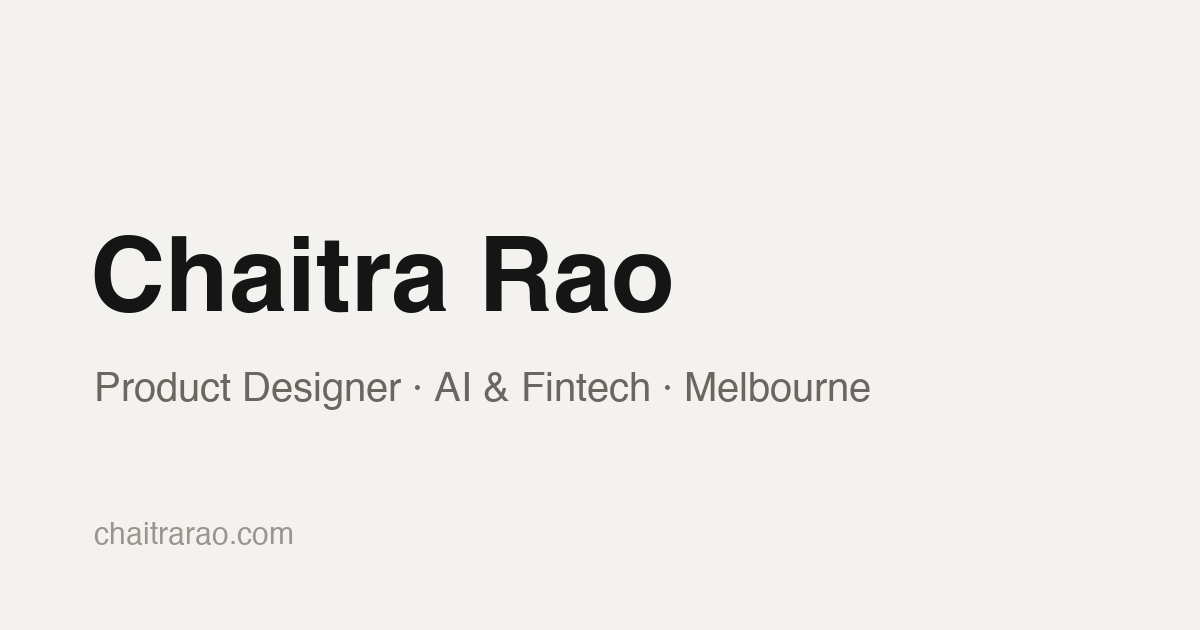
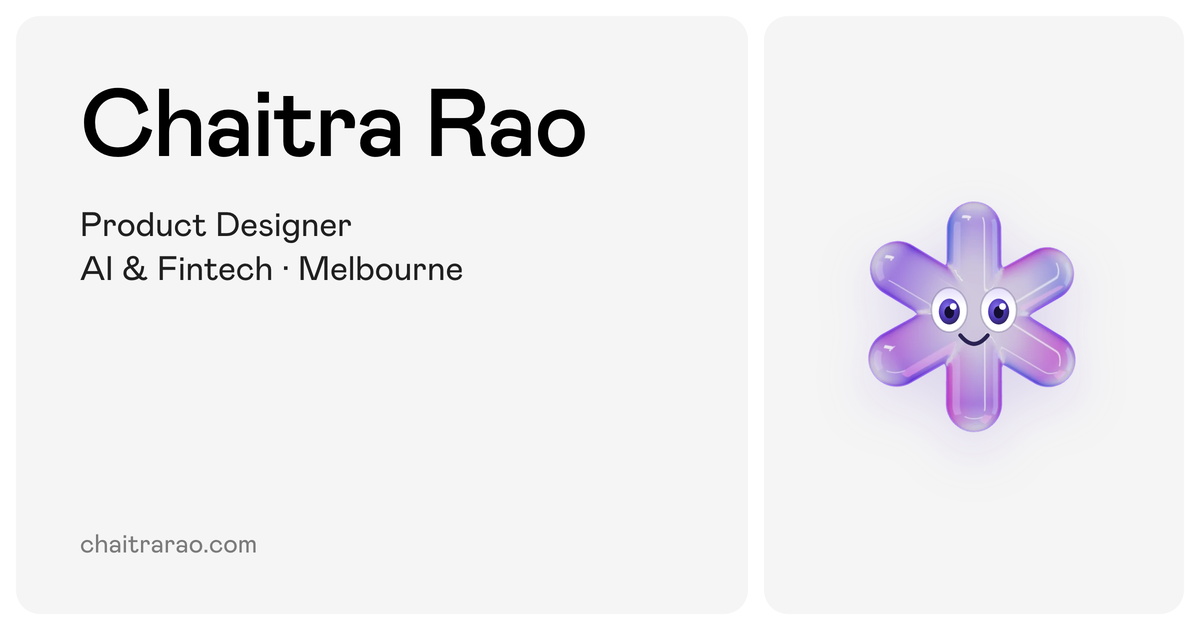
Prerender every page for crawlers; minimal link preview image
- Build now prerenders each public page to its own HTML (scripts/prerender.mjs,
  src/entry-server.tsx, src/app/routes.tsx) with per-page title, description,
  canonical, OG/Twitter tags and JSON-LD; sitemap.xml is generated at build.
- Drop the SPA catch-all rewrite (vercel.json cleanUrls, _redirects) so unknown
  paths return a real 404 and robots.txt/sitemap.xml are served as files.
- New og.png in the site's own style (grey cards, Mabry Pro, glass asterisk),
  linked as og.png?v=2 so apps refetch it.

diff --git a/index.html b/index.html
@@ -13,7 +13,7 @@
     <meta property="og:site_name" content="Chaitra Rao" />
     <meta property="og:locale" content="en_AU" />
     <meta property="og:url" content="https://chaitrarao.com/" />
-    <meta property="og:image" content="https://chaitrarao.com/og.png" />
+    <meta property="og:image" content="https://chaitrarao.com/og.png?v=2" />
     <meta property="og:image:width" content="1200" />
     <meta property="og:image:height" content="630" />
     <meta property="og:image:alt" content="Chaitra Rao, Product Designer, AI and Fintech" />
@@ -22,7 +22,7 @@
     <meta name="twitter:card" content="summary_large_image" />
     <meta name="twitter:title" content="Chaitra Rao | Product Designer, AI &amp; Fintech" />
     <meta name="twitter:description" content="Hi, I’m Chaitra, a Melbourne-based Product Designer with a background in finance. I design digital products across fintech and AI to make complex things easier to use." />
-    <meta name="twitter:image" content="https://chaitrarao.com/og.png" />
+    <meta name="twitter:image" content="https://chaitrarao.com/og.png?v=2" />
     <link rel="icon" type="image/png" sizes="32x32" href="/favicon-32.png?v=4" />
     <link rel="icon" type="image/png" sizes="48x48" href="/favicon-48.png?v=4" />
     <link rel="icon" type="image/png" sizes="96x96" href="/favicon-96.png?v=4" />
@@ -33,6 +33,7 @@
       {
         "@context": "https://schema.org",
         "@type": "Person",
+        "@id": "https://chaitrarao.com/#person",
         "name": "Chaitra Rao",
         "url": "https://chaitrarao.com/",
         "image": "https://chaitrarao.com/og.png",
@@ -44,6 +45,9 @@
         "address": { "@type": "PostalAddress", "addressLocality": "Melbourne", "addressCountry": "AU" }
       }
     </script>
+    <!-- The prerendered page (for crawlers) stays hidden until the app renders in its place; without scripts it shows. -->
+    <style>#root[data-prerendered]{display:none}</style>
+    <noscript><style>#root[data-prerendered]{display:block}</style></noscript>
     <link rel="preload" href="/fonts/MabryPro-Regular.woff2" as="font" type="font/woff2" crossorigin />
     <link rel="preload" href="/fonts/MabryPro-Medium.woff2" as="font" type="font/woff2" crossorigin />
   </head>

diff --git a/src/components/layout/usePageMeta.ts b/src/components/layout/usePageMeta.ts
@@ -1,6 +1,21 @@
-import { useEffect } from 'react';
+import { createContext, useContext, useEffect } from 'react';
 import { useLocation } from 'react-router';
 import { site } from '../../data/site';
+
+export interface PageMeta {
+  title: string;
+  description: string;
+  noindex: boolean;
+}
+
+/** The address the page arrived on, as its prerendered HTML states it. */
+const initialUrl = typeof document === 'undefined' ? '' : (document.querySelector<HTMLLinkElement>('link[rel="canonical"]')?.href ?? '');
+
+/**
+ * Set only by the build-time prerender (src/entry-server.tsx): the page records its tags here while it renders,
+ * so the prerendered HTML ships each page's own title, description and canonical. Unused in the browser.
+ */
+export const PageMetaCollector = createContext<((meta: PageMeta) => void) | null>(null);
 
 function setMeta(selector: string, content: string) {
   document.head.querySelector<HTMLMetaElement>(selector)?.setAttribute('content', content);
@@ -18,10 +33,11 @@ function setLink(rel: string, href: string) {
 
 /**
  * Keeps the page's SEO tags in step with the route: title, description, canonical URL, Open Graph and Twitter
- * cards, and robots. index.html ships the home values for crawlers that don't run scripts.
+ * cards, and robots. The prerender writes the same values into each page's HTML for crawlers that don't run scripts.
  */
 export function usePageMeta(title: string, description: string, { noindex = false } = {}) {
   const { pathname } = useLocation();
+  useContext(PageMetaCollector)?.({ title, description, noindex });
   useEffect(() => {
     const url = site.url + (pathname === '/' ? '/' : pathname.replace(/\/$/, ''));
     document.title = title;
@@ -33,5 +49,7 @@ export function usePageMeta(title: string, description: string, { noindex = fals
     setMeta('meta[name="twitter:title"]', title);
     setMeta('meta[name="twitter:description"]', description);
     setLink('canonical', url);
+    // the prerendered page's own structured data describes the page it arrived on; drop it once the visitor moves on
+    if (url !== initialUrl) document.head.querySelectorAll('script[data-page-ld]').forEach((el) => el.remove());
   }, [title, description, noindex, pathname]);
 }

diff --git a/src/entry-server.tsx b/src/entry-server.tsx
@@ -1,0 +1,40 @@
+/**
+ * Build-time prerender entry (not part of the browser bundle). scripts/prerender.mjs builds this with
+ * `vite build --ssr` and calls render() for every public page, so crawlers and non-JS tools get each page's
+ * real headings, copy and links in the HTML. In the browser, src/main.tsx renders the app afresh exactly as before.
+ */
+import { StrictMode } from 'react';
+import { renderToString } from 'react-dom/server';
+import { createStaticHandler, createStaticRouter, StaticRouterProvider } from 'react-router';
+import { routes } from './app/routes';
+import { PageMetaCollector, type PageMeta } from './components/layout/usePageMeta';
+import { caseStudies, caseStudyPath, sideProjects } from './data/projects';
+import { site } from './data/site';
+import { caseStudyPages } from './work';
+
+export { caseStudies, caseStudyPath, sideProjects, site };
+
+/** Every public, indexable page. */
+export const pages = ['/', '/about', ...caseStudies.filter((p) => caseStudyPages[p.slug]).map((p) => caseStudyPath(p.slug))];
+
+export interface Rendered {
+  html: string;
+  meta: PageMeta | null;
+  status: number;
+}
+
+export async function render(pathname: string): Promise<Rendered> {
+  const handler = createStaticHandler(routes);
+  const context = await handler.query(new Request(site.url + pathname));
+  if (context instanceof Response) throw new Error(`${pathname} redirected (${context.status}); only prerender final URLs`);
+  const router = createStaticRouter(handler.dataRoutes, context);
+  let meta: PageMeta | null = null;
+  const html = renderToString(
+    <StrictMode>
+      <PageMetaCollector.Provider value={(m) => (meta = m)}>
+        <StaticRouterProvider router={router} context={context} hydrate={false} />
+      </PageMetaCollector.Provider>
+    </StrictMode>,
+  );
+  return { html, meta, status: context.statusCode };
+}

diff --git a/src/app/router.tsx b/src/app/router.tsx
@@ -1,25 +1,8 @@
 import { createBrowserRouter } from 'react-router';
-import HomePage from '../pages/Home/HomePage';
-import { NotFound } from '../pages/NotFound/NotFound';
 import { introDone } from '../lib/intro';
-import { RootLayout } from './RootLayout';
+import { loadAbout, loadCaseStudy, routes } from './routes';
 
-const loadAbout = () => import('../pages/About/AboutPage');
-const loadCaseStudy = () => import('../pages/CaseStudy/route');
-
-export const router = createBrowserRouter([
-  {
-    element: <RootLayout />,
-    HydrateFallback: () => null,
-    children: [
-      // Home is the landing page, so it ships in the main bundle.
-      { index: true, element: <HomePage /> },
-      { path: 'about', lazy: async () => ({ Component: (await loadAbout()).default }) },
-      { path: 'work/:slug', lazy: loadCaseStudy },
-      { path: '*', element: <NotFound /> },
-    ],
-  },
-]);
+export const router = createBrowserRouter(routes);
 
 // Once the page is up, fetch the other pages in quiet moments, so moving between them is instant.
 void introDone.then(() => {

diff --git a/src/app/routes.tsx b/src/app/routes.tsx
@@ -1,0 +1,22 @@
+import type { RouteObject } from 'react-router';
+import HomePage from '../pages/Home/HomePage';
+import { NotFound } from '../pages/NotFound/NotFound';
+import { RootLayout } from './RootLayout';
+
+export const loadAbout = () => import('../pages/About/AboutPage');
+export const loadCaseStudy = () => import('../pages/CaseStudy/route');
+
+/** The site's routes, shared by the browser router and the build-time prerender (src/entry-server.tsx). */
+export const routes: RouteObject[] = [
+  {
+    element: <RootLayout />,
+    HydrateFallback: () => null,
+    children: [
+      // Home is the landing page, so it ships in the main bundle.
+      { index: true, element: <HomePage /> },
+      { path: 'about', lazy: async () => ({ Component: (await loadAbout()).default }) },
+      { path: 'work/:slug', lazy: loadCaseStudy },
+      { path: '*', element: <NotFound /> },
+    ],
+  },
+];

diff --git a/src/main.tsx b/src/main.tsx
@@ -6,7 +6,15 @@ import './styles/tokens.css';
 import './styles/global.css';
 import './styles/animations.css';
 
-createRoot(document.getElementById('root')!).render(
+const root = document.getElementById('root')!;
+// Each page's HTML carries a prerendered copy of the page for crawlers and non-JS tools (scripts/prerender.mjs),
+// held invisible by index.html. The app renders afresh in its place, exactly as it always has.
+if (root.hasAttribute('data-prerendered')) {
+  root.replaceChildren();
+  root.removeAttribute('data-prerendered');
+}
+
+createRoot(root).render(
   <StrictMode>
     <RouterProvider router={router} />
   </StrictMode>,
